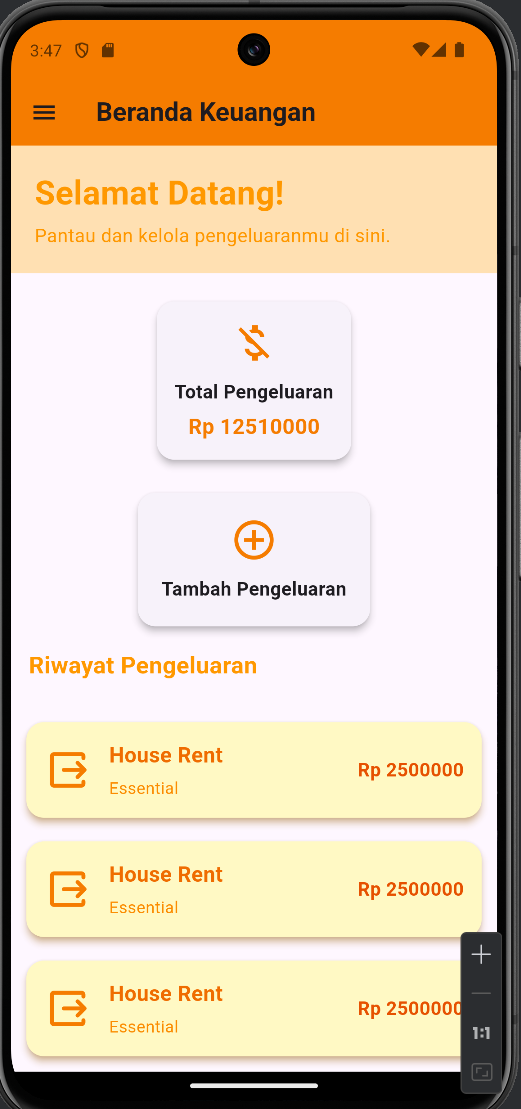
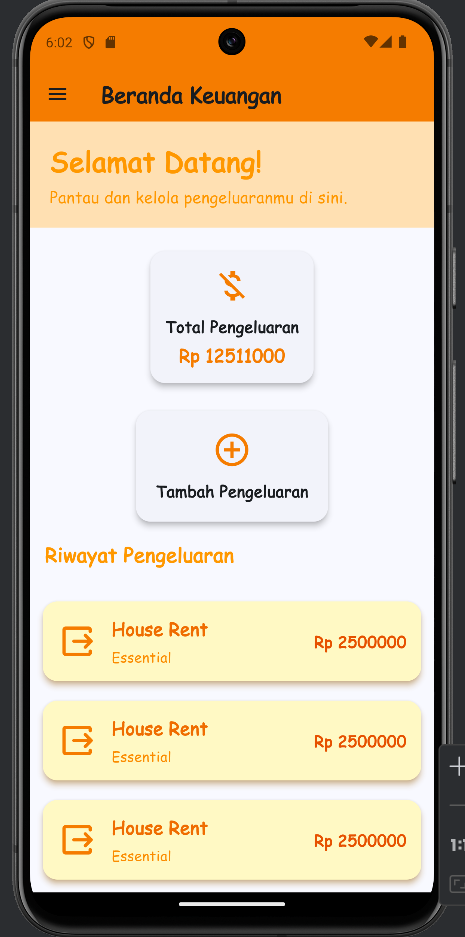
readme

Changed region(s): [[0.0, 0.0, 1.0, 1.0], [0.3011, 0.2785, 0.6624, 0.4333], [0.4516, 0.0309, 0.5419, 0.0619]]

diff --git a/README.md b/README.md
@@ -2,7 +2,8 @@
 ## H1D022018 
 ## Shift KRS : D 
 ## Shift Baru : F
-
+## Disclaimer
+- Untuk fontnya sebenarnya sudah diubah semua ke comic sans tapi karena saya ssnya lebih dulu diawal saat belum diubah fontnya jadinya hanya beberapa ss yang fontnya sudah benar. saya mau ss semuanya tetapi apinya down down terus jadinya hanya beberapa saja ss yang sudah diubah tetapi untuk semua pagenya sudah saya ubah lewat pubs yaml dan juga main.dart di mnaterialAppnya untuk global font familynya sudah saya ubah.
 ## Soal paket
 <img src="soal.png" width="500"/>
 
